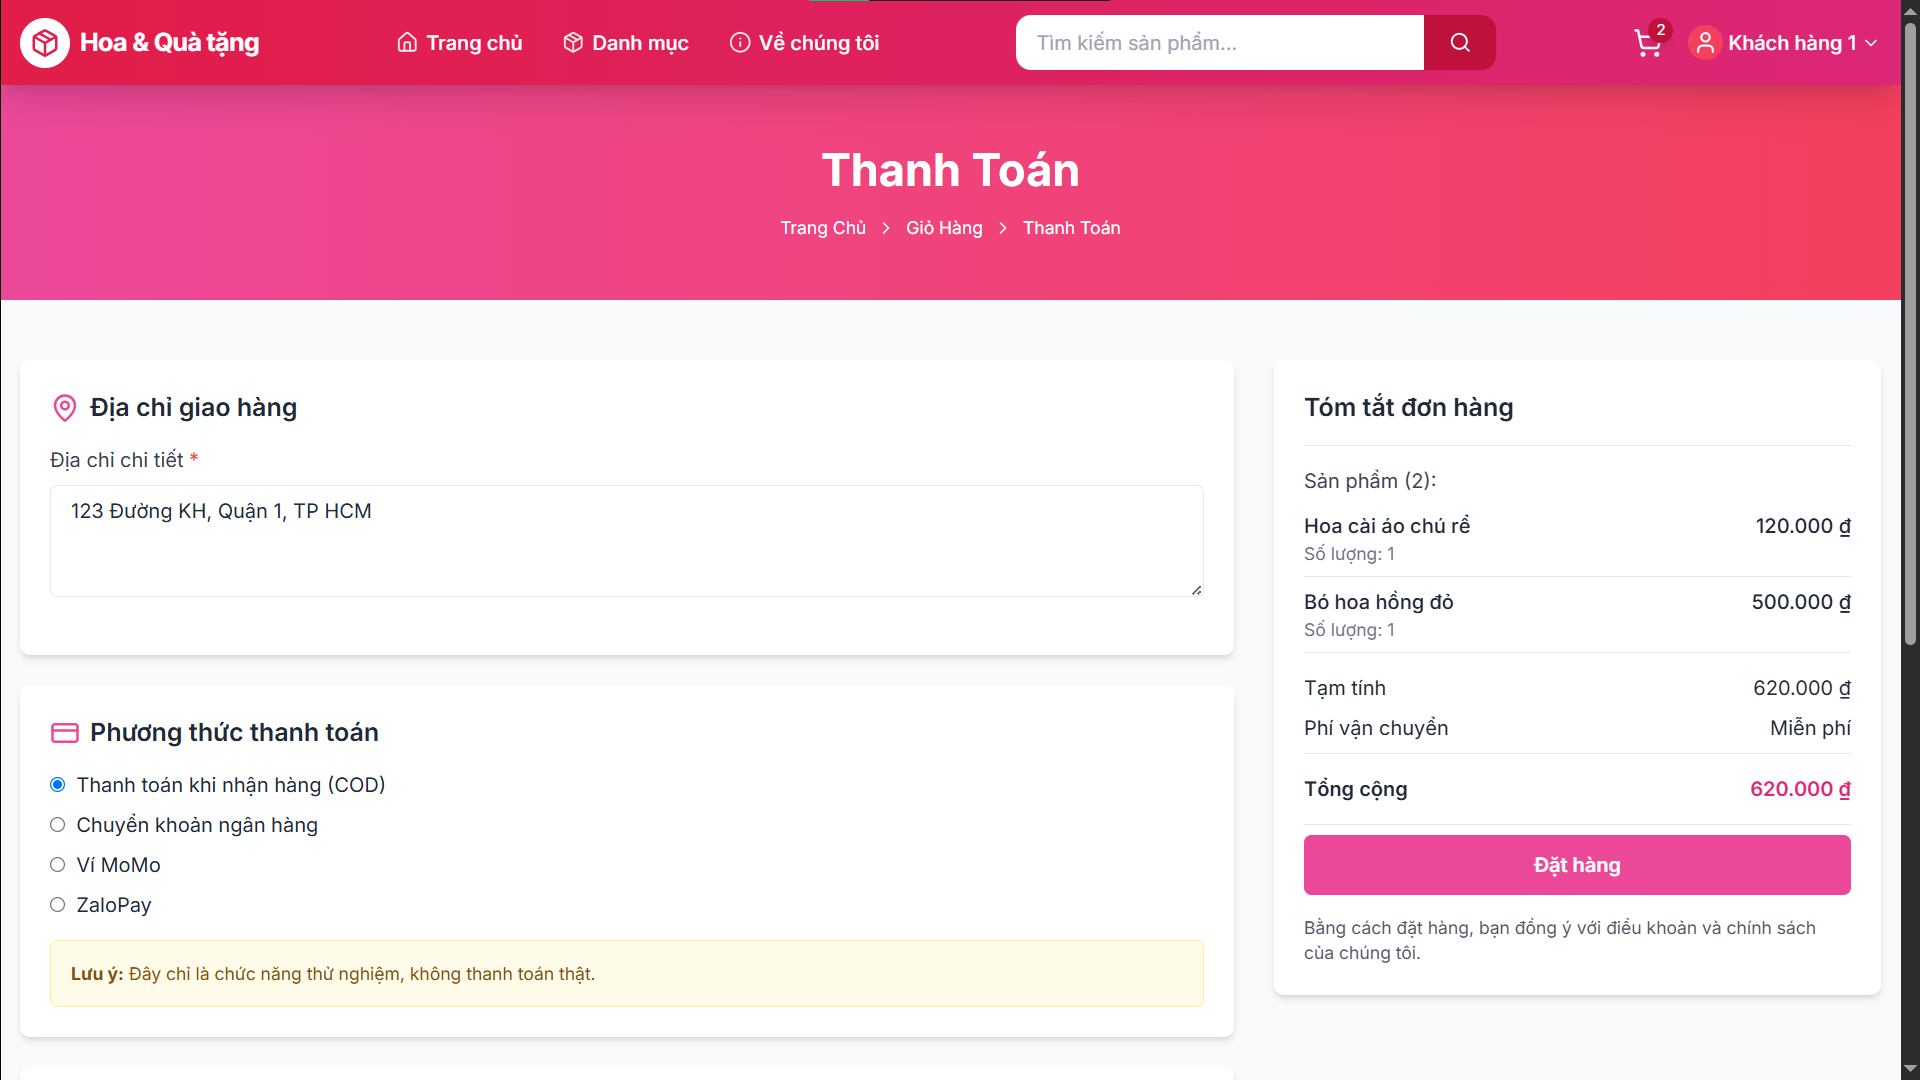
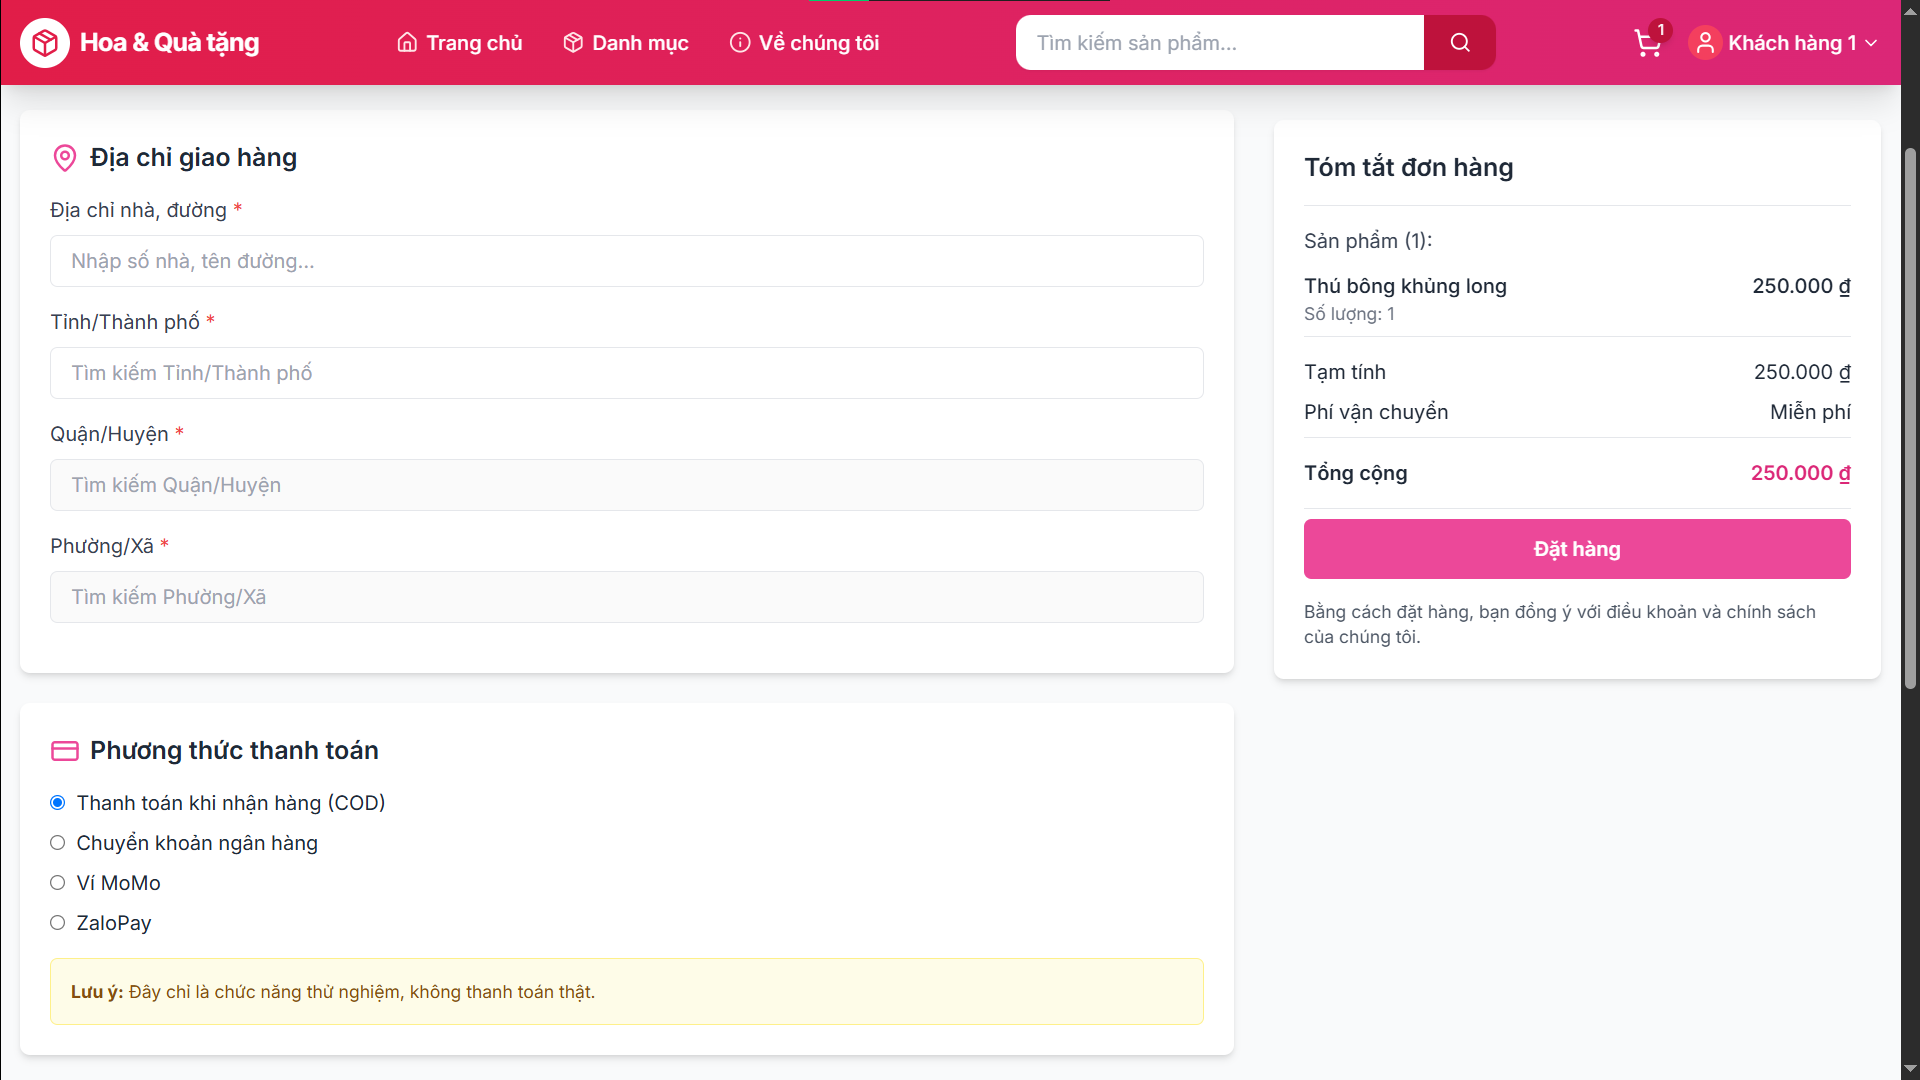
v3.2.2

diff --git a/frontend/src/pages/Checkout.tsx b/frontend/src/pages/Checkout.tsx
@@ -30,6 +30,48 @@ const Checkout = () => {
     phuongThucTT: 'Tiền mặt',
   });
   const [orderError, setOrderError] = useState<string | null>(null);
+  // Dropdown cho địa chỉ
+  const [provinces, setProvinces] = useState<any[]>([]);
+  const [districts, setDistricts] = useState<any[]>([]);
+  const [wards, setWards] = useState<any[]>([]);
+  const [selectedProvince, setSelectedProvince] = useState<any>(null);
+  const [selectedDistrict, setSelectedDistrict] = useState<any>(null);
+  const [selectedWard, setSelectedWard] = useState<any>(null);
+  const [addressDetail, setAddressDetail] = useState('');
+  const [searchProvince, setSearchProvince] = useState('');
+  const [searchDistrict, setSearchDistrict] = useState('');
+  const [searchWard, setSearchWard] = useState('');
+  const [focusProvince, setFocusProvince] = useState(false);
+  const [focusDistrict, setFocusDistrict] = useState(false);
+  const [focusWard, setFocusWard] = useState(false);
+  // Fetch Provinces
+  useEffect(() => {
+    fetch('https://provinces.open-api.vn/api/?depth=1')
+      .then(res => res.json())
+      .then(data => setProvinces(data));
+  }, []);
+
+  // Fetch Districts
+  useEffect(() => {
+    if (selectedProvince) {
+      fetch(`https://provinces.open-api.vn/api/p/${selectedProvince.code}?depth=2`)
+        .then(res => res.json())
+        .then(data => setDistricts(data.districts || []));
+      setSelectedDistrict(null);
+      setWards([]);
+      setSelectedWard(null);
+    }
+  }, [selectedProvince]);
+
+  // Fetch Wards
+  useEffect(() => {
+    if (selectedDistrict) {
+      fetch(`https://provinces.open-api.vn/api/d/${selectedDistrict.code}?depth=2`)
+        .then(res => res.json())
+        .then(data => setWards(data.wards || []));
+      setSelectedWard(null);
+    }
+  }, [selectedDistrict]);
   
   const { user, isAuthenticated } = useAuth();
   const { cart: cartItems, clearAll } = useCart();
@@ -91,8 +133,9 @@ const Checkout = () => {
   const handleSubmit = async (e: React.FormEvent) => {
     e.preventDefault();
     
-    if (!formData.diaChi) {
-      alert('Vui lòng nhập địa chỉ giao hàng');
+
+    if (!addressDetail || !selectedProvince || !selectedDistrict || !selectedWard) {
+      alert('Vui lòng nhập đầy đủ địa chỉ giao hàng');
       return;
     }
 
@@ -100,10 +143,12 @@ const Checkout = () => {
       setSubmitting(true);
       setOrderError(null);
 
-      // Chuẩn bị dữ liệu đơn hàng
+
+      // Gộp địa chỉ thành một dòng
+      const fullAddress = `${addressDetail}, ${selectedWard.name}, ${selectedDistrict.name}, ${selectedProvince.name}`;
       const orderData = {
         PhuongThucTT: formData.phuongThucTT,
-        DiaChi: formData.diaChi,
+        DiaChi: fullAddress,
         TongTien: calculateTotalPrice(),
         items: cart.map(item => ({
           MaSanPham: item.productId,
@@ -181,17 +226,141 @@ const Checkout = () => {
                   
                   <div className="mb-4">
                     <label className="block text-gray-700 mb-2">
-                      Địa chỉ chi tiết <span className="text-red-500">*</span>
+                      Địa chỉ nhà, đường <span className="text-red-500">*</span>
                     </label>
-                    <textarea
-                      name="diaChi"
-                      value={formData.diaChi}
-                      onChange={handleInputChange}
+                    <input
+                      type="text"
+                      value={addressDetail}
+                      onChange={e => setAddressDetail(e.target.value)}
                       className="w-full px-4 py-2 border rounded-md focus:outline-none focus:ring-2 focus:ring-pink-500"
-                      rows={3}
-                      placeholder="Nhập địa chỉ giao hàng đầy đủ"
+                      placeholder="Nhập số nhà, tên đường..."
                       required
-                    ></textarea>
+                    />
+                  </div>
+                  <div className="mb-4">
+                    <label className="block text-gray-700 mb-2">Tỉnh/Thành phố <span className="text-red-500">*</span></label>
+                    <div className="relative">
+                      <input
+                        type="text"
+                        className="w-full px-4 py-2 border rounded-md"
+                        placeholder="Tìm kiếm Tỉnh/Thành phố"
+                        value={searchProvince}
+                        onChange={e => setSearchProvince(e.target.value)}
+                        onFocus={() => setFocusProvince(true)}
+                        onBlur={() => setTimeout(() => setFocusProvince(false), 200)}
+                        autoComplete="off"
+                      />
+                      {(focusProvince && (searchProvince.length > 0 || searchProvince.length === 0)) && (
+                        <ul className="absolute z-10 w-full bg-white border rounded-md max-h-60 overflow-y-auto shadow-lg mt-1">
+                          {(searchProvince.length === 0
+                            ? provinces
+                            : provinces.filter(p => {
+                                const terms = searchProvince.toLowerCase().split(/\s+/).filter(Boolean);
+                                return terms.every(term => p.name.toLowerCase().includes(term));
+                              })
+                          ).map(p => (
+                            <li
+                              key={p.code}
+                              className={`px-4 py-2 cursor-pointer hover:bg-pink-100 ${selectedProvince?.code === p.code ? 'bg-pink-200' : ''}`}
+                              onMouseDown={() => {
+                                setSelectedProvince(p);
+                                setSearchProvince(p.name);
+                              }}
+                            >{p.name}</li>
+                          ))}
+                          {(searchProvince.length > 0 && provinces.filter(p => {
+                            const terms = searchProvince.toLowerCase().split(/\s+/).filter(Boolean);
+                            return terms.every(term => p.name.toLowerCase().includes(term));
+                          }).length === 0) && (
+                            <li className="px-4 py-2 text-gray-400">Không tìm thấy</li>
+                          )}
+                        </ul>
+                      )}
+                    </div>
+                  </div>
+                  <div className="mb-4">
+                    <label className="block text-gray-700 mb-2">Quận/Huyện <span className="text-red-500">*</span></label>
+                    <div className="relative">
+                      <input
+                        type="text"
+                        className="w-full px-4 py-2 border rounded-md"
+                        placeholder="Tìm kiếm Quận/Huyện"
+                        value={searchDistrict}
+                        onChange={e => setSearchDistrict(e.target.value)}
+                        onFocus={() => setFocusDistrict(true)}
+                        onBlur={() => setTimeout(() => setFocusDistrict(false), 200)}
+                        disabled={!selectedProvince}
+                        autoComplete="off"
+                      />
+                      {(focusDistrict && (searchDistrict.length > 0 || searchDistrict.length === 0)) && (
+                        <ul className="absolute z-10 w-full bg-white border rounded-md max-h-60 overflow-y-auto shadow-lg mt-1">
+                          {(searchDistrict.length === 0
+                            ? districts
+                            : districts.filter(d => {
+                                const terms = searchDistrict.toLowerCase().split(/\s+/).filter(Boolean);
+                                return terms.every(term => d.name.toLowerCase().includes(term));
+                              })
+                          ).map(d => (
+                            <li
+                              key={d.code}
+                              className={`px-4 py-2 cursor-pointer hover:bg-pink-100 ${selectedDistrict?.code === d.code ? 'bg-pink-200' : ''}`}
+                              onMouseDown={() => {
+                                setSelectedDistrict(d);
+                                setSearchDistrict(d.name);
+                              }}
+                            >{d.name}</li>
+                          ))}
+                          {(searchDistrict.length > 0 && districts.filter(d => {
+                            const terms = searchDistrict.toLowerCase().split(/\s+/).filter(Boolean);
+                            return terms.every(term => d.name.toLowerCase().includes(term));
+                          }).length === 0) && (
+                            <li className="px-4 py-2 text-gray-400">Không tìm thấy</li>
+                          )}
+                        </ul>
+                      )}
+                    </div>
+                  </div>
+                  <div className="mb-4">
+                    <label className="block text-gray-700 mb-2">Phường/Xã <span className="text-red-500">*</span></label>
+                    <div className="relative">
+                      <input
+                        type="text"
+                        className="w-full px-4 py-2 border rounded-md"
+                        placeholder="Tìm kiếm Phường/Xã"
+                        value={searchWard}
+                        onChange={e => setSearchWard(e.target.value)}
+                        onFocus={() => setFocusWard(true)}
+                        onBlur={() => setTimeout(() => setFocusWard(false), 200)}
+                        disabled={!selectedDistrict}
+                        autoComplete="off"
+                      />
+                      {(focusWard && (searchWard.length > 0 || searchWard.length === 0)) && (
+                        <ul className="absolute z-10 w-full bg-white border rounded-md max-h-60 overflow-y-auto shadow-lg mt-1">
+                          {(searchWard.length === 0
+                            ? wards
+                            : wards.filter(w => {
+                                const terms = searchWard.toLowerCase().split(/\s+/).filter(Boolean);
+                                return terms.every(term => w.name.toLowerCase().includes(term));
+                              })
+                          ).map(w => (
+                            <li
+                              key={w.code}
+                              className={`px-4 py-2 cursor-pointer hover:bg-pink-100 ${selectedWard?.code === w.code ? 'bg-pink-200' : ''}`}
+                              onMouseDown={() => {
+                                setSelectedWard(w);
+                                setSearchWard(w.name);
+                              }}
+                            >{w.name}</li>
+                          ))}
+                          {(searchWard.length > 0 && wards.filter(w => {
+                            const terms = searchWard.toLowerCase().split(/\s+/).filter(Boolean);
+                            return terms.every(term => w.name.toLowerCase().includes(term));
+                          }).length === 0) && (
+                            <li className="px-4 py-2 text-gray-400">Không tìm thấy</li>
+                          )}
+                        </ul>
+                      )}
+                    </div>
                   </div>
                 </div>
 
